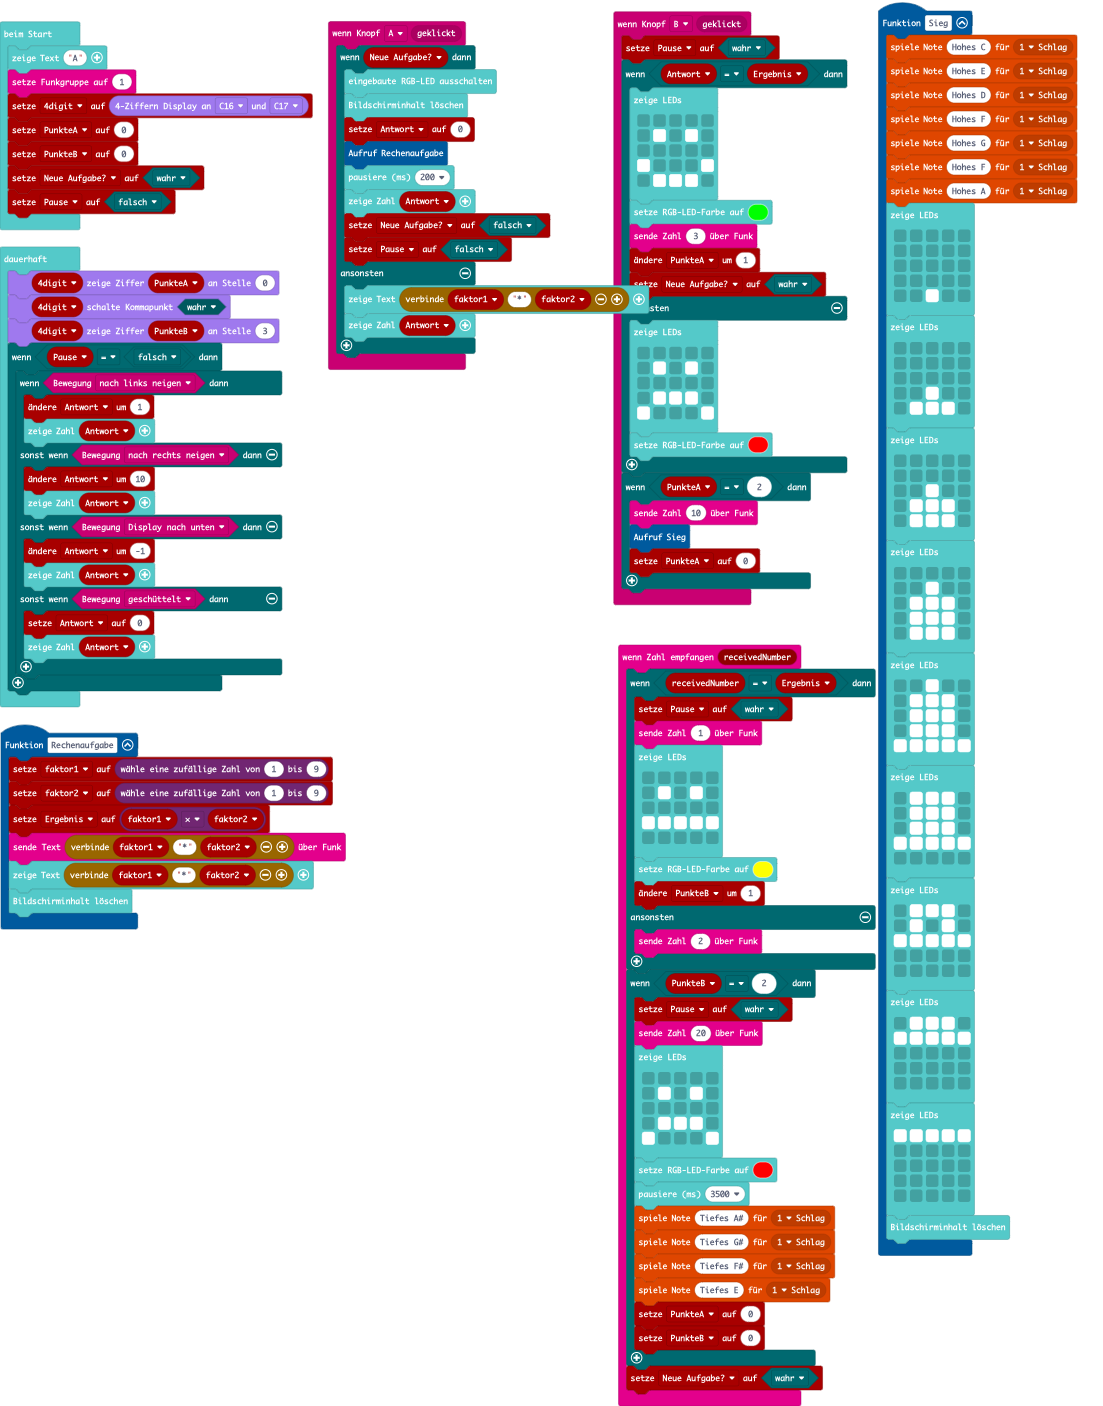
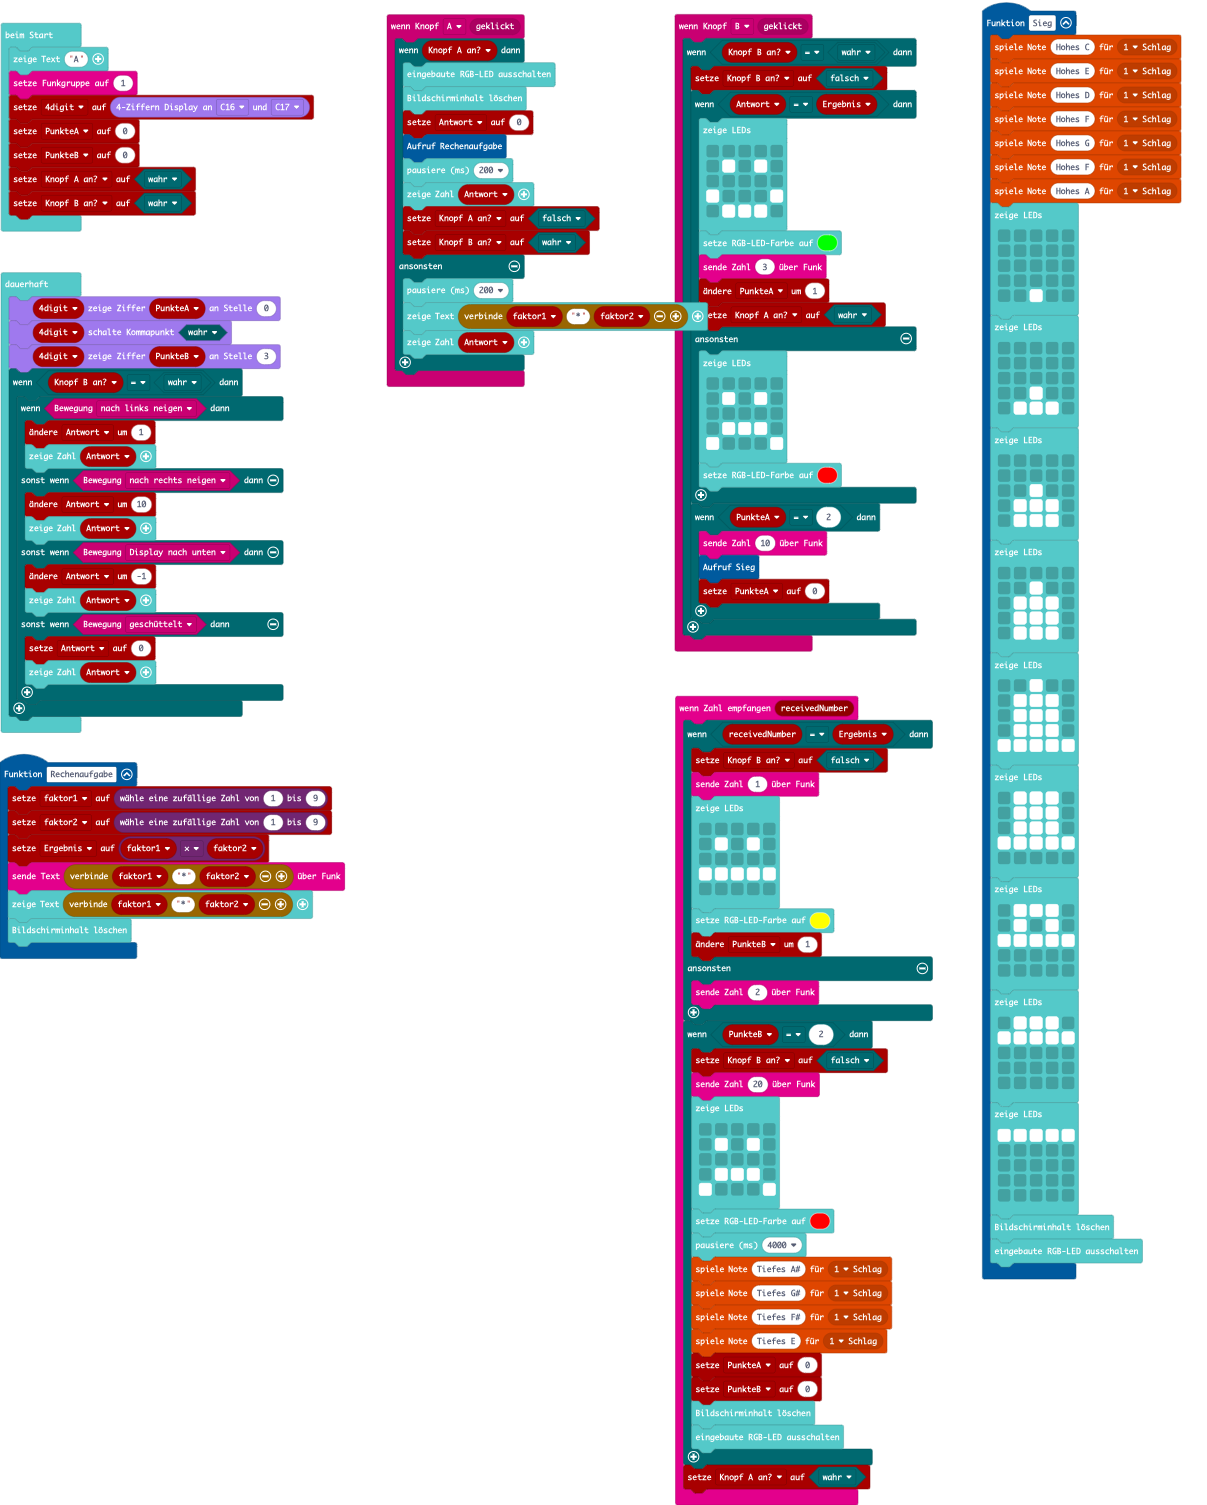
Aktualisiere main.blocks, main.ts

Changed region(s): [[0.0, 0.0, 0.9864, 1.0]]

diff --git a/main.ts b/main.ts
@@ -4,7 +4,7 @@ enum RadioMessage {
 }
 radio.onReceivedNumber(function (receivedNumber) {
     if (receivedNumber == Ergebnis) {
-        Pause = true
+        Knopf_B_an = false
         radio.sendNumber(1)
         basic.showLeds(`
             . . . . .
@@ -19,7 +19,7 @@ radio.onReceivedNumber(function (receivedNumber) {
         radio.sendNumber(2)
     }
     if (PunkteB == 2) {
-        Pause = true
+        Knopf_B_an = false
         radio.sendNumber(20)
         basic.showLeds(`
             . . . . .
@@ -29,59 +29,64 @@ radio.onReceivedNumber(function (receivedNumber) {
             # . . . #
             `)
         basic.setLedColor(0xff0000)
-        basic.pause(3500)
+        basic.pause(4000)
         music.playTone(233, music.beat(BeatFraction.Whole))
         music.playTone(208, music.beat(BeatFraction.Whole))
         music.playTone(185, music.beat(BeatFraction.Whole))
         music.playTone(165, music.beat(BeatFraction.Whole))
         PunkteA = 0
         PunkteB = 0
+        basic.clearScreen()
+        basic.turnRgbLedOff()
     }
-    Neue_Aufgabe = true
+    Knopf_A_an = true
 })
 input.onButtonEvent(Button.A, input.buttonEventClick(), function () {
-    if (Neue_Aufgabe) {
+    if (Knopf_A_an) {
         basic.turnRgbLedOff()
         basic.clearScreen()
         Antwort = 0
         Rechenaufgabe()
         basic.pause(200)
         basic.showNumber(Antwort)
-        Neue_Aufgabe = false
-        Pause = false
+        Knopf_A_an = false
+        Knopf_B_an = true
     } else {
+        basic.pause(200)
         basic.showString("" + faktor1 + "*" + faktor2)
         basic.showNumber(Antwort)
     }
 })
 input.onButtonEvent(Button.B, input.buttonEventClick(), function () {
-    Pause = true
-    if (Antwort == Ergebnis) {
-        basic.showLeds(`
-            . . . . .
-            . # . # .
-            . . . . .
-            # . . . #
-            . # # # .
-            `)
-        basic.setLedColor(0x00ff00)
-        radio.sendNumber(3)
-        PunkteA += 1
-        Neue_Aufgabe = true
-    } else {
-        basic.showLeds(`
-            . . . . .
-            . # . # .
-            . . . . .
-            . # # # .
-            # . . . #
-            `)
-        basic.setLedColor(0xff0000)
-    }
-    if (PunkteA == 2) {
-        radio.sendNumber(10)
-        Sieg()
-        PunkteA = 0
+    if (Knopf_B_an == true) {
+        Knopf_B_an = false
+        if (Antwort == Ergebnis) {
+            basic.showLeds(`
+                . . . . .
+                . # . # .
+                . . . . .
+                # . . . #
+                . # # # .
+                `)
+            basic.setLedColor(0x00ff00)
+            radio.sendNumber(3)
+            PunkteA += 1
+            Knopf_A_an = true
+        } else {
+            basic.showLeds(`
+                . . . . .
+                . # . # .
+                . . . . .
+                . # # # .
+                # . . . #
+                `)
+            basic.setLedColor(0xff0000)
+        }
+        if (PunkteA == 2) {
+            radio.sendNumber(10)
+            Sieg()
+            PunkteA = 0
+        }
     }
 })
 function Rechenaufgabe () {
@@ -164,13 +169,14 @@ function Sieg () {
         . . . . .
         `)
     basic.clearScreen()
+    basic.turnRgbLedOff()
 }
 let faktor2 = 0
 let faktor1 = 0
 let Antwort = 0
 let Ergebnis = 0
-let Pause = false
-let Neue_Aufgabe = false
+let Knopf_B_an = false
+let Knopf_A_an = false
 let PunkteB = 0
 let PunkteA = 0
 basic.showString("A")
@@ -178,13 +184,13 @@ radio.setGroup(1)
 let _4digit = grove.createDisplay(DigitalPin.C16, DigitalPin.C17)
 PunkteA = 0
 PunkteB = 0
-Neue_Aufgabe = true
-Pause = false
+Knopf_A_an = true
+Knopf_B_an = true
 basic.forever(function () {
     _4digit.bit(PunkteA, 0)
     _4digit.point(true)
     _4digit.bit(PunkteB, 3)
-    if (Pause == false) {
+    if (Knopf_B_an == true) {
         if (input.isGesture(Gesture.TiltLeft)) {
             Antwort += 1
             basic.showNumber(Antwort)
